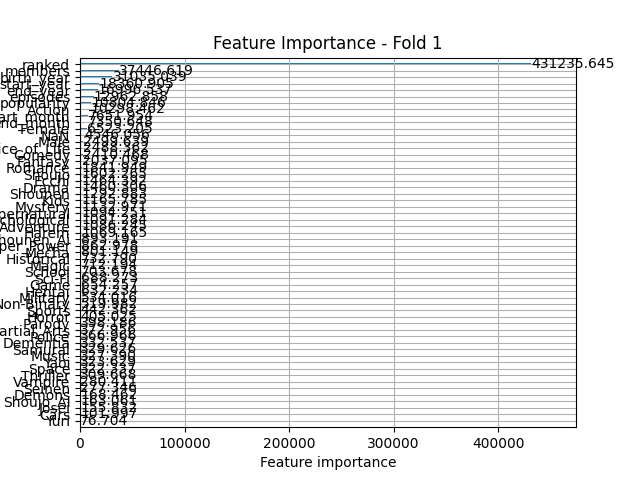
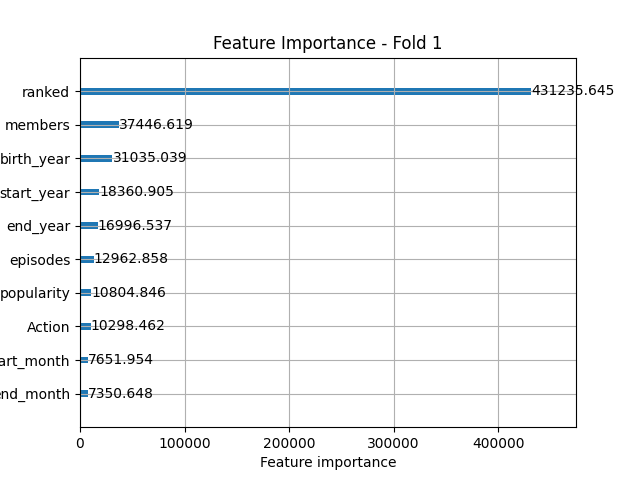
:wrench: configure max_num_features

Changed region(s): [[0.0, 0.125, 0.9688, 0.9062]]

diff --git a/trap-competetion-2023-summer/working/main.py b/trap-competetion-2023-summer/working/main.py
@@ -153,7 +153,10 @@ def train(
         result_file.write(f"Fold {i + 1} MSE: {val_loss:.4f}\n")
 
         lgb.plot_importance(
-            model, importance_type="gain", title=f"Feature Importance - Fold {i + 1}"
+            model,
+            importance_type="gain",
+            title=f"Feature Importance - Fold {i + 1}",
+            max_num_features=10,
         )
         plt.savefig(path.join(output_dir, f"feature_importance_{i + 1}.png"))
 
@@ -192,11 +195,11 @@ if __name__ == "__main__":
         csv_test, csv_anime, csv_profile, is_train=False, scaler=scaler
     )
 
-    for col in train_x.columns:
-        if train_x[col].dtype != "uint8":
-            train_x[col].hist()
-            plt.savefig(path.join(output_dir, f"tmp_{col}.png"))
-            plt.clf()
+    # for col in train_x.columns:
+    #     if train_x[col].dtype != "uint8":
+    #         train_x[col].hist()
+    #         plt.savefig(path.join(output_dir, f"tmp_{col}.png"))
+    #         plt.clf()
 
     val_preds, preds = train(
         train_x,
